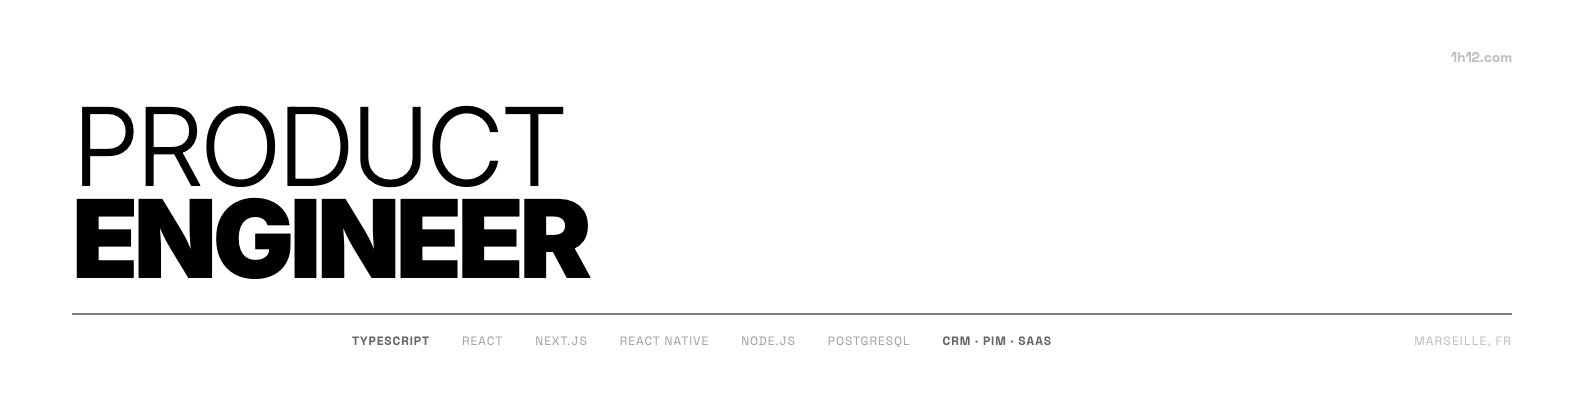
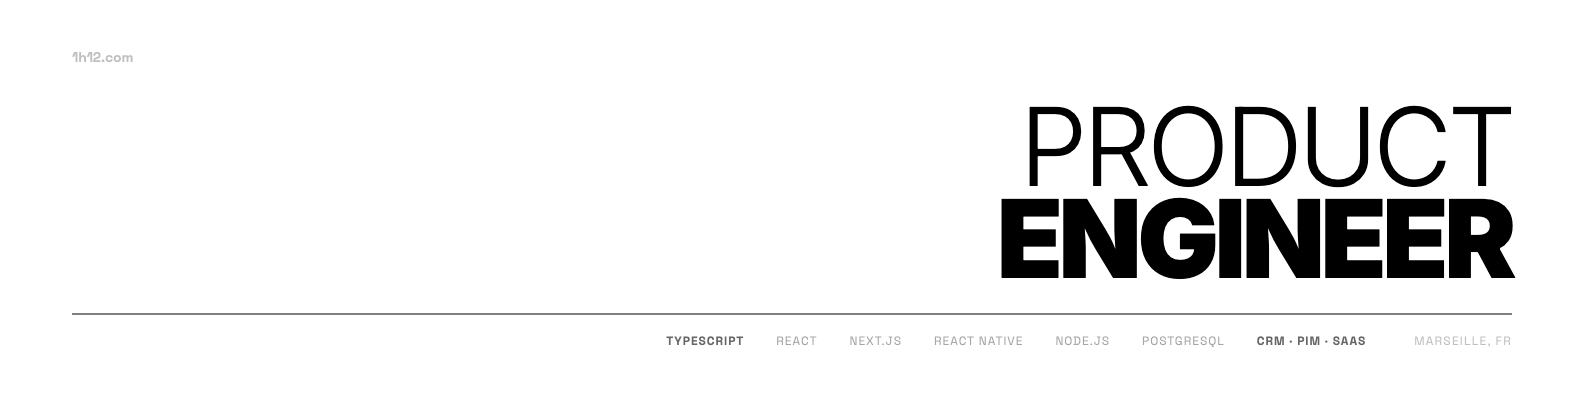
Content: brandin

diff --git a/branding/linkedin-banner-template.html b/branding/linkedin-banner-template.html
@@ -16,6 +16,7 @@
     display: flex;
     flex-direction: column;
     justify-content: flex-end;
+    align-items: flex-end;
     padding: 48px 72px;
     overflow: hidden;
   }
@@ -27,6 +28,7 @@
     letter-spacing: -0.04em;
     line-height: 0.86;
     margin-bottom: 28px;
+    text-align: right;
   }
 
   .role .line1 { font-weight: 300; display: block; }
@@ -40,22 +42,23 @@
     opacity: 0.25;
     position: absolute;
     top: 48px;
-    right: 72px;
+    left: 72px;
   }
 
   .bottom {
     display: flex;
-    justify-content: space-between;
+    justify-content: flex-end;
     align-items: flex-end;
+    gap: 3rem;
     border-top: 1px solid #000;
     padding-top: 18px;
+    width: 100%;
   }
 
   .stack {
     display: flex;
     gap: 2rem;
     align-items: baseline;
-    padding-left: 280px;
   }
 
   .stack-item {